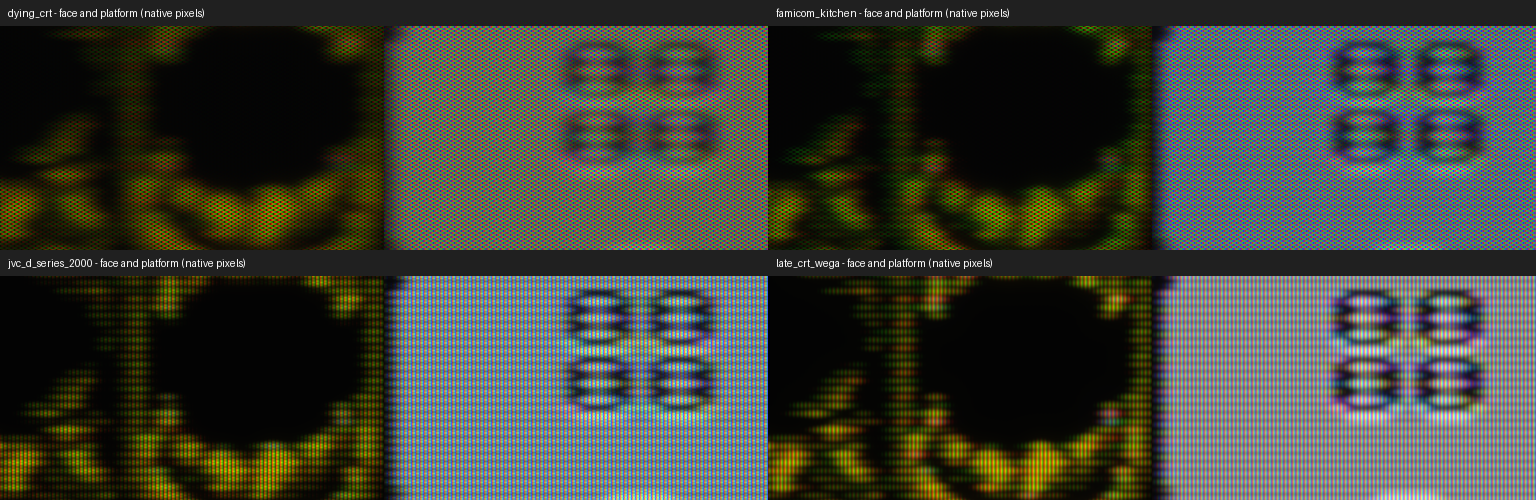
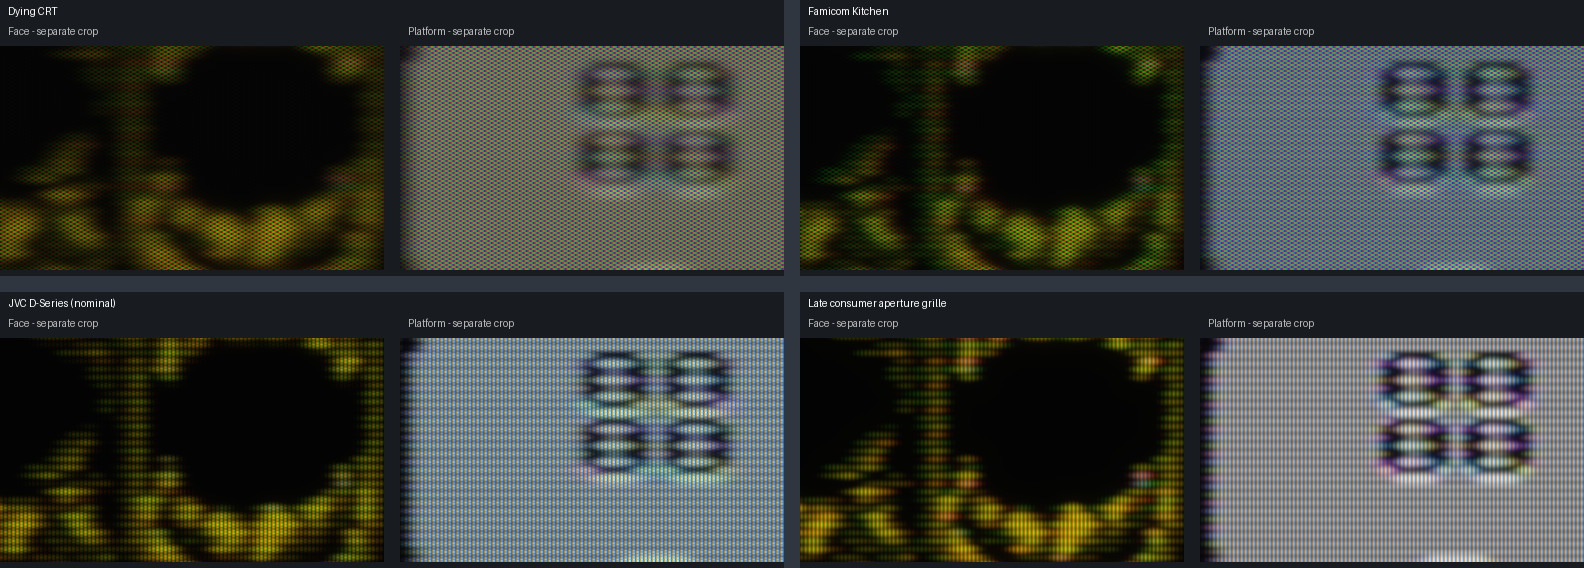
Lead with detailed gameplay, clarify native crops, and enable GPU builds by default

diff --git a/docs/nes-visual-showcase.md b/docs/nes-visual-showcase.md
@@ -1,40 +1,29 @@
-# Choosing the NES showcase
+# MyNES showcase
 
-This selection starts with games praised for their artwork, then selects actual MyNES captures for composition, recognizable imagery and visible signal behaviour. A game's reputation alone does not make its first available frame a good screenshot.
+NES games rendered through MyNES's GPU signal and CRT pipeline.
 
-## Research behind the selection
+[![Castlevania on the Sony PVM-14L2, 3840×2880](images/showcase/4k/castlevania-pvm-gameplay.png)](images/showcase/4k/castlevania-pvm-gameplay.png)
 
-[Den of Geek's graphics-focused list](https://www.denofgeek.com/games/best-looking-nes-games-graphics-ever-all-time/) highlights Batman: Return of the Joker, Kirby's Adventure, Darkwing Duck and Little Samson, and also includes Super Mario Bros. 3 and Contra. Its discussion emphasizes colour, animation, large sprites and detailed environments.
-
-[NES developer nesdoug's visual selections](https://nesdoug.com/2018/06/16/nes-graphics/) independently include Kirby, Little Samson, Batman, Mega Man 2 and Shatterhand. This is an art selection, explicitly not a ranked list. These sources guided the candidates; the images below are our renderer's output, not screenshots copied from those articles.
+[Close-up of the same frame](images/showcase/4k/castlevania-pvm-detail.png) · [All 20 presets on Contra](contra-preset-gallery.md)
 
 ## Watch
 
-- [Five-game showcase reel — 20 seconds, 60.1 fps](images/showcase/showcase-reel.mp4). Each scene runs for four seconds, with straight cuts and no frame blending. Approximate starts: 0:00 Kirby, 0:04 Little Samson, 0:08 Darkwing Duck, 0:12 Mario 3, 0:16 Mega Man 2.
-- Individual four-second videos are linked below.
+**[▶ Five games in 20 seconds · 60.1 fps](images/showcase/showcase-reel.mp4)**
 
-## The chosen scenes
-
-| Game | Scene and reason | Preset | Native-cadence clip |
+| Game | Scene | CRT preset | Video |
 |---|---|---|---|
-| Kirby's Adventure | Complete title composition and animated stars; the longer clip continues into the colourful attract scene. | JVC D-Series | [60.1 fps](images/showcase/kirby-jvc_d_series_2000.mp4) |
-| Little Samson | Mountain-to-palace opening: layered architecture, columns and warm/cool contrast. The GIF concentrates on the palace. | JVC D-Series | [60.1 fps](images/showcase/little-samson-jvc_d_series_2000.mp4) |
-| Darkwing Duck | Bridge gameplay: moving and jumping across bright rails against a blue night sky and city lights. | Stas's Favourite | [60.1 fps](images/showcase/darkwing-stass_favourite.mp4) |
-| Super Mario Bros. 3 | Recognizable theatrical title with animated characters and curtains. | Toshiba 14AF | [60.1 fps](images/showcase/mario-3-toshiba_14af43.mp4) |
-| Mega Man 2 | Complete title and rooftop hero, replacing an earlier capture of mid-intro prose. | Sony PVM-14L2 | [60.1 fps](images/showcase/mega-man-2-sony_pvm_14l2.mp4) |
+| Kirby's Adventure | Animated title and opening | JVC D-Series | [Watch](images/showcase/kirby-jvc_d_series_2000.mp4) |
+| Little Samson | Mountain and palace opening | JVC D-Series | [Watch](images/showcase/little-samson-jvc_d_series_2000.mp4) |
+| Darkwing Duck | Bridge gameplay | Stas's Favourite · RF | [Watch](images/showcase/darkwing-stass_favourite.mp4) |
+| Super Mario Bros. 3 | Animated theatrical title | Toshiba 14AF | [Watch](images/showcase/mario-3-toshiba_14af43.mp4) |
+| Mega Man 2 | Rooftop title | Sony PVM-14L2 | [Watch](images/showcase/mega-man-2-sony_pvm_14l2.mp4) |
 
-Batman and Shatterhand were also captured. The sampled plain logos/intro fragments were weaker showcase compositions than the selected scenes, so they are not included simply to fill the page. Zelda's sampled fade and story text were also rejected. This is a selection of scenes, not a claim that the chosen games are objectively the best-looking games.
+## Look closer
 
-[Native 4K close-ups and beam-height review](gpu-beam-closeups.md).
-
-## Unaveraged animation
-
-README GIFs retain 24 consecutive frames at 20 ms each: 50 fps, with the same GIF timing compromise documented in the [motion review](gpu-motion-review.md). A fixed palette avoids palette changes creating extra flicker; no temporal blending or optical-flow interpolation is used. Full scenes are reduced from 960×720 to 640×480 in linear light, frame by frame, before GIF palette conversion. Exposure remains 0.7 across every capture. Darkwing’s GIF selects the jump at source frames 8100–8123 from the decoded gameplay video; it therefore also inherits the MP4’s chroma compression. Its full clip starts at frame 8000.
-
-Each linked MP4 contains 240 consecutive frames at 60.0988 fps. Browser/GIF playback is not a verification of live panel cadence. The exact scenes and frame counts are in the [capture manifest](showcase-captures.json).
-
-The following **native-pixel Kirby detail** uses lossless RGB and 16/17 ms WebP frame durations. It makes the alternating phase visible without enlarging the effect or slowing it for emphasis:
+[Full-resolution gameplay and native close-ups](gpu-beam-closeups.md) show the beam, grille and brightness-dependent scanline width. Full game captures are 3840×2880; the four-preset title comparison uses 3840×2160 canvases with a 4:3 game viewport.
 
 ![Kirby title: native-pixel, unaveraged phase detail](images/showcase/kirby-phase-detail.webp)
 
-The [all-preset Contra comparison](contra-preset-gallery.md) remains the controlled comparison of display models. This showcase deliberately varies games and presets; it is not a controlled tube-to-tube comparison.
+This lossless animated detail retains the changing NTSC phases. The videos run at 60.0988 fps without frame blending. README GIF previews use 50 fps for compatibility; click through to the videos for the original cadence.
+
+[Capture details](showcase-captures.json) · [CRT presets](gpu-preset-audit.md) · [Beam measurements](gpu-beam-closeups.md#does-the-beam-actually-widen)

diff --git a/README.md b/README.md
@@ -7,9 +7,9 @@ RF set. MyNES builds the NES waveform from PPU colour codes, passes it through
 a receiver, and renders the beam, phosphors and glass. Change the connection,
 turn a control, or switch televisions while the game keeps running.
 
-[![Darkwing Duck gameplay on the PVM, 3840×2880](docs/images/showcase/4k/darkwing-pvm-gameplay.png)](docs/images/showcase/4k/darkwing-pvm-gameplay.png)
+[![Castlevania castle hall on the PVM, 3840×2880](docs/images/showcase/4k/castlevania-pvm-gameplay.png)](docs/images/showcase/4k/castlevania-pvm-gameplay.png)
 
-*Darkwing Duck in play · Sony PVM-14L2 · click for the full 3840×2880 capture.*
+*Castlevania in play · Sony PVM-14L2 · click for the full 3840×2880 capture.*
 
 [Get started](#quick-start) · [All 20 CRT presets](docs/contra-preset-gallery.md) ·
 [Signal Studio](tools/visualiser/README.md) · [How the model works](docs/gpu-pipeline-reference.md)
@@ -28,7 +28,7 @@ turn a control, or switch televisions while the game keeps running.
 
 *Actual MyNES output, with alternating NTSC phases kept separate. GIFs run at
 50 fps for compatibility; click any image for its **60.1 fps video**. No temporal
-averaging or added flicker. [Scene selection and visual references](docs/nes-visual-showcase.md).*
+averaging or added flicker. [More images and videos](docs/nes-visual-showcase.md).*
 
 The colour fringes and fine patterns change from one frame to the next.
 This native-pixel, lossless detail keeps the near-60 Hz cadence so you can
@@ -38,6 +38,10 @@ see what a merged screenshot hides:
 
 ## Look closer
 
+[![Castlevania: native-pixel close-up of Simon, the window and masonry](docs/images/showcase/4k/castlevania-pvm-detail.png)](docs/images/showcase/4k/castlevania-pvm-detail.png)
+
+*The same frame, cropped to 1280×1120 without enlargement. Open at 100% to inspect the beam and grille.*
+
 **[Four CRTs at 4K: native close-ups and measured beam height](docs/gpu-beam-closeups.md).**
 The complete gameplay image is **3840 pixels wide**, with no side bars.
 Dim strokes stay narrow; bright details spread and fill more of the gap
@@ -45,6 +49,14 @@ between scanlines. Detail crops are not enlarged. The behavior is modeled;
 individual tube beam profiles remain uncalibrated.
 
 ## Choose your television
+
+**[Compare all 20 presets on the same Contra scene →](docs/contra-preset-gallery.md)**
+
+[![Contra through four CRT presets](docs/images/contra-gallery/overview-4.png)](docs/contra-preset-gallery.md#group-4)
+
+[![Studio aperture grille: native face and bright-platform details](docs/images/contra-gallery/studio-pvm-beam-detail.png)](docs/contra-preset-gallery.md#group-5)
+
+*Studio aperture grille (Y/C): two separate native crops of the face and platform, with a visible divider. From the gallery’s 2560×1920, two-phase exposure; the generic Studio preset is separate from the nominal 14L2.*
 
 | Start here | What it brings to the picture |
 |---|---|
@@ -118,12 +130,23 @@ Required for the core and tests:
 - Chicken Scheme (`csi`) if you want to regenerate CPU code from the DSL
   locally. Pre-generated CPU code is committed as a fallback.
 
-Optional frontends/tools:
+The GPU frontend is enabled by default and requires SDL3, `glslc` (provided
+by **shaderc**), `spirv-cross`, and Python 3 for shader compilation.
+On macOS:
 
-- SDL2 development headers for `mynes`
-- SDL3 development headers for `mynes_gpu`
-- `glslc` for GLSL to SPIR-V shader compilation
-- `spirv-cross` for SPIR-V to Metal Shading Language on macOS
+```bash
+brew install cmake sdl3 shaderc spirv-cross python
+command -v glslc spirv-cross python3
+glslc --version
+```
+
+If a build reports **`glslc: command not found`**, install `shaderc`—the Homebrew
+package is not named `glslc`—and ensure Homebrew's `bin` directory is on your
+shell's `PATH`. Then rerun the build. Package references:
+[shaderc](https://formulae.brew.sh/formula/shaderc),
+[spirv-cross](https://formulae.brew.sh/formula/spirv-cross).
+
+SDL2 is optional for the separate legacy `mynes` frontend.
 
 ### Build
 
@@ -146,7 +169,7 @@ The main build options are:
 ```bash
 cmake .. -DNES_BUILD_TESTS=ON        # default: ON
 cmake .. -DNES_BUILD_FRONTENDS=ON    # default: ON
-cmake .. -DNES_BUILD_GPU_FRONTEND=ON # default: OFF, requires SDL3
+cmake .. -DNES_BUILD_GPU_FRONTEND=ON # default: ON, requires SDL3
 ```
 
 ### Run
@@ -154,8 +177,8 @@ cmake .. -DNES_BUILD_GPU_FRONTEND=ON # default: OFF, requires SDL3
 From the build directory:
 
 ```bash
-./bin/mynes                  # open the fullscreen ROM browser
-./bin/mynes path/to/game.nes # run a ROM directly
+./bin/mynes_gpu                  # open the GPU frontend ROM browser
+./bin/mynes_gpu path/to/game.nes # run a ROM directly
 ```
 
 The repository does not include commercial ROMs. Keep local ROMs in
@@ -163,19 +186,17 @@ The repository does not include commercial ROMs. Keep local ROMs in
 
 ### GPU Frontend
 
-Build with SDL3 support enabled:
+New build directories enable the GPU frontend automatically. If an existing
+build cached the old OFF default, enable it explicitly:
 
 ```bash
 cmake .. -DNES_BUILD_GPU_FRONTEND=ON
 cmake --build . -j
 ```
 
-Run it the same way:
-
-```bash
-./bin/mynes_gpu
-./bin/mynes_gpu path/to/game.nes
-```
+To opt out, configure with `-DNES_BUILD_GPU_FRONTEND=OFF`.
+`-DNES_BUILD_FRONTENDS=OFF` disables both graphical frontends. The optional
+SDL2 frontend remains available as `./bin/mynes`.
 
 Shaders are built automatically into the build tree. To rebuild them
 manually from the repository root:

diff --git a/docs/gpu-beam-closeups.md b/docs/gpu-beam-closeups.md
@@ -1,8 +1,22 @@
 # Gameplay and beam height at native 4K pixels
 
-The Darkwing gameplay capture is 3840×2880: the complete 4:3 game image is 3840 pixels wide, without side bars. The older comparison and controlled measurements below use 3840×2160 canvases with a 2880×2160 game viewport. Close-ups are cropped **without resizing**. Open the PNG at 100% to inspect the mask; fitting the image to a browser window can change its apparent pattern. They show one NTSC phase, not a blended exposure.
+The Castlevania and Darkwing gameplay captures are 3840×2880: the complete 4:3 game image is 3840 pixels wide, without side bars. The older comparison and controlled measurements below use 3840×2160 canvases with a 2880×2160 game viewport. Close-ups are cropped **without resizing**. Open the PNG at 100% to inspect the mask; fitting the image to a browser window can change its apparent pattern. They show one NTSC phase, not a blended exposure.
 
-## PVM during gameplay
+## Castlevania: full screen and close-up
+
+[![Castlevania castle hall, 3840×2880](images/showcase/4k/castlevania-pvm-gameplay.png)](images/showcase/4k/castlevania-pvm-gameplay.png)
+
+[![Native close-up of the same Castlevania frame](images/showcase/4k/castlevania-pvm-detail.png)](images/showcase/4k/castlevania-pvm-detail.png)
+
+Sony PVM-14L2 preset, composite, emulated frame 2500. The crop is 1280×1120 at x=1360, y=1584, copied without resizing. The full beam and image are rendered at 3840×2880. Exposure is 0.7; this is one NTSC phase. Simon, window tracery and damaged masonry retain their game context while showing the spot and grille.
+
+## Studio aperture grille: face and platform
+
+[![Studio aperture grille, native face and platform details](images/contra-gallery/studio-pvm-beam-detail.png)](contra-preset-gallery.md#group-5)
+
+These details come unchanged from the [Contra preset gallery](contra-preset-gallery.md): 2560×1920, two consecutive phases averaged in linear light. The two crops are from different vertical positions and are separated and labelled. They show scanline structure, but this comparison alone does not isolate brightness-dependent spot growth. Studio aperture grille is a generic Y/C monitor preset, distinct from the nominal Sony PVM-14L2.
+
+## Darkwing Duck during gameplay
 
 [![Darkwing Duck bridge gameplay, 3840×2880](images/showcase/4k/darkwing-pvm-gameplay.png)](images/showcase/4k/darkwing-pvm-gameplay.png)
 

diff --git a/docs/README.md b/docs/README.md
@@ -4,7 +4,7 @@ Start with the [game showcase](nes-visual-showcase.md): Darkwing Duck gameplay,
 Kirby's Adventure, Little Samson, Super Mario Bros. 3 and Mega Man 2, recorded
 through MyNES's GPU signal path with individual NTSC phases intact.
 
-[![Darkwing Duck through the PVM model](images/showcase/4k/darkwing-pvm-gameplay.png)](images/showcase/4k/darkwing-pvm-gameplay.png)
+[![Castlevania through the PVM model](images/showcase/4k/castlevania-pvm-gameplay.png)](images/showcase/4k/castlevania-pvm-gameplay.png)
 
 The linked image contains a complete **3840×2880 game viewport**. The page preview
 is scaled to fit; open the original to inspect its pixels.

diff --git a/docs/contra-preset-gallery.md b/docs/contra-preset-gallery.md
@@ -18,6 +18,8 @@ The renders have recognizable CRT structure, but a still cannot establish phosph
 
 ## Every preset
 
+Each detail panel contains two separate crops: face on the left, platform on the right. Labels and a gutter separate these distant parts of the screen; they are not one contiguous image.
+
 Click a preset name for the complete **2560×1920** render. View native crops at 100%: browser resizing can change fine mask appearance.
 
 ### Group 1

diff --git a/tools/review/README.md b/tools/review/README.md
@@ -18,6 +18,7 @@ source frames; `--screenshot-frames 240` records a four-second motion segment.
 Use `--offscreen 3840x2880 --mask-alignment pixels` for a 4:3 game image
 3840 pixels wide. A 3840×2160 canvas contains a narrower 2880×2160 viewport.
 `darkwing-bridge.input` reproduces the bridge gameplay at frame 8000.
+`castlevania-hall.input` reproduces the castle hall at frame 2500.
 
 ## Beam measurements
 
